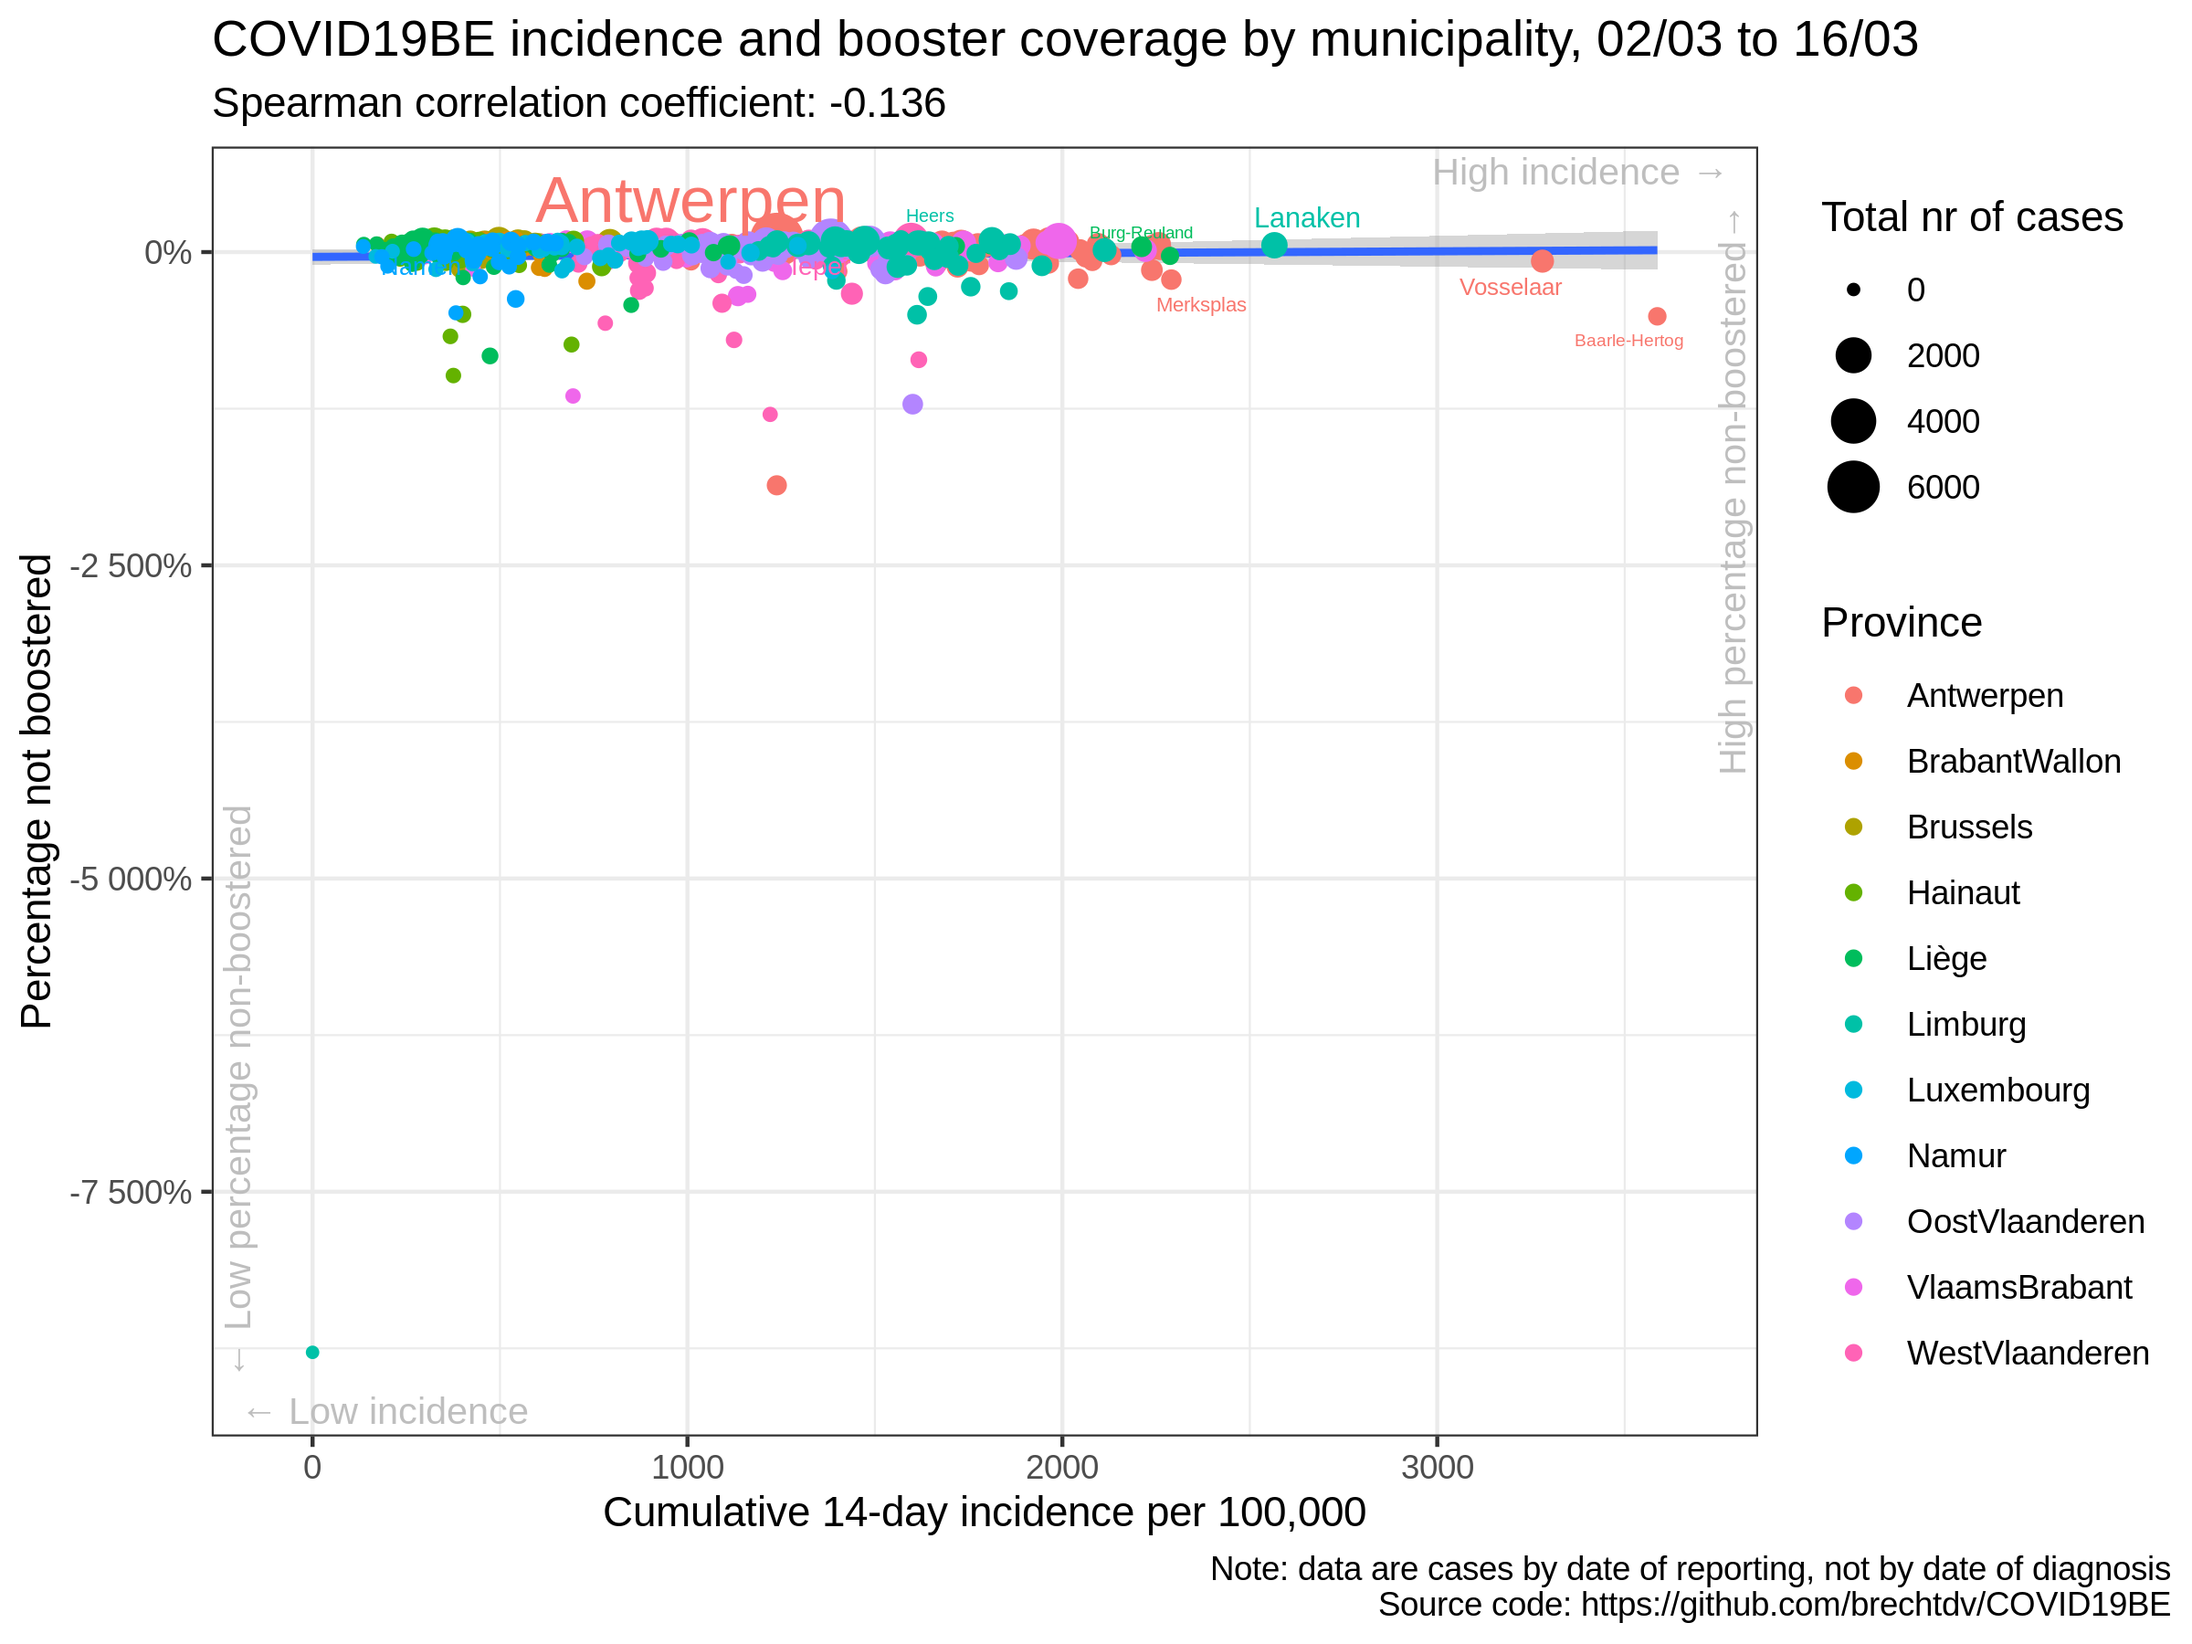
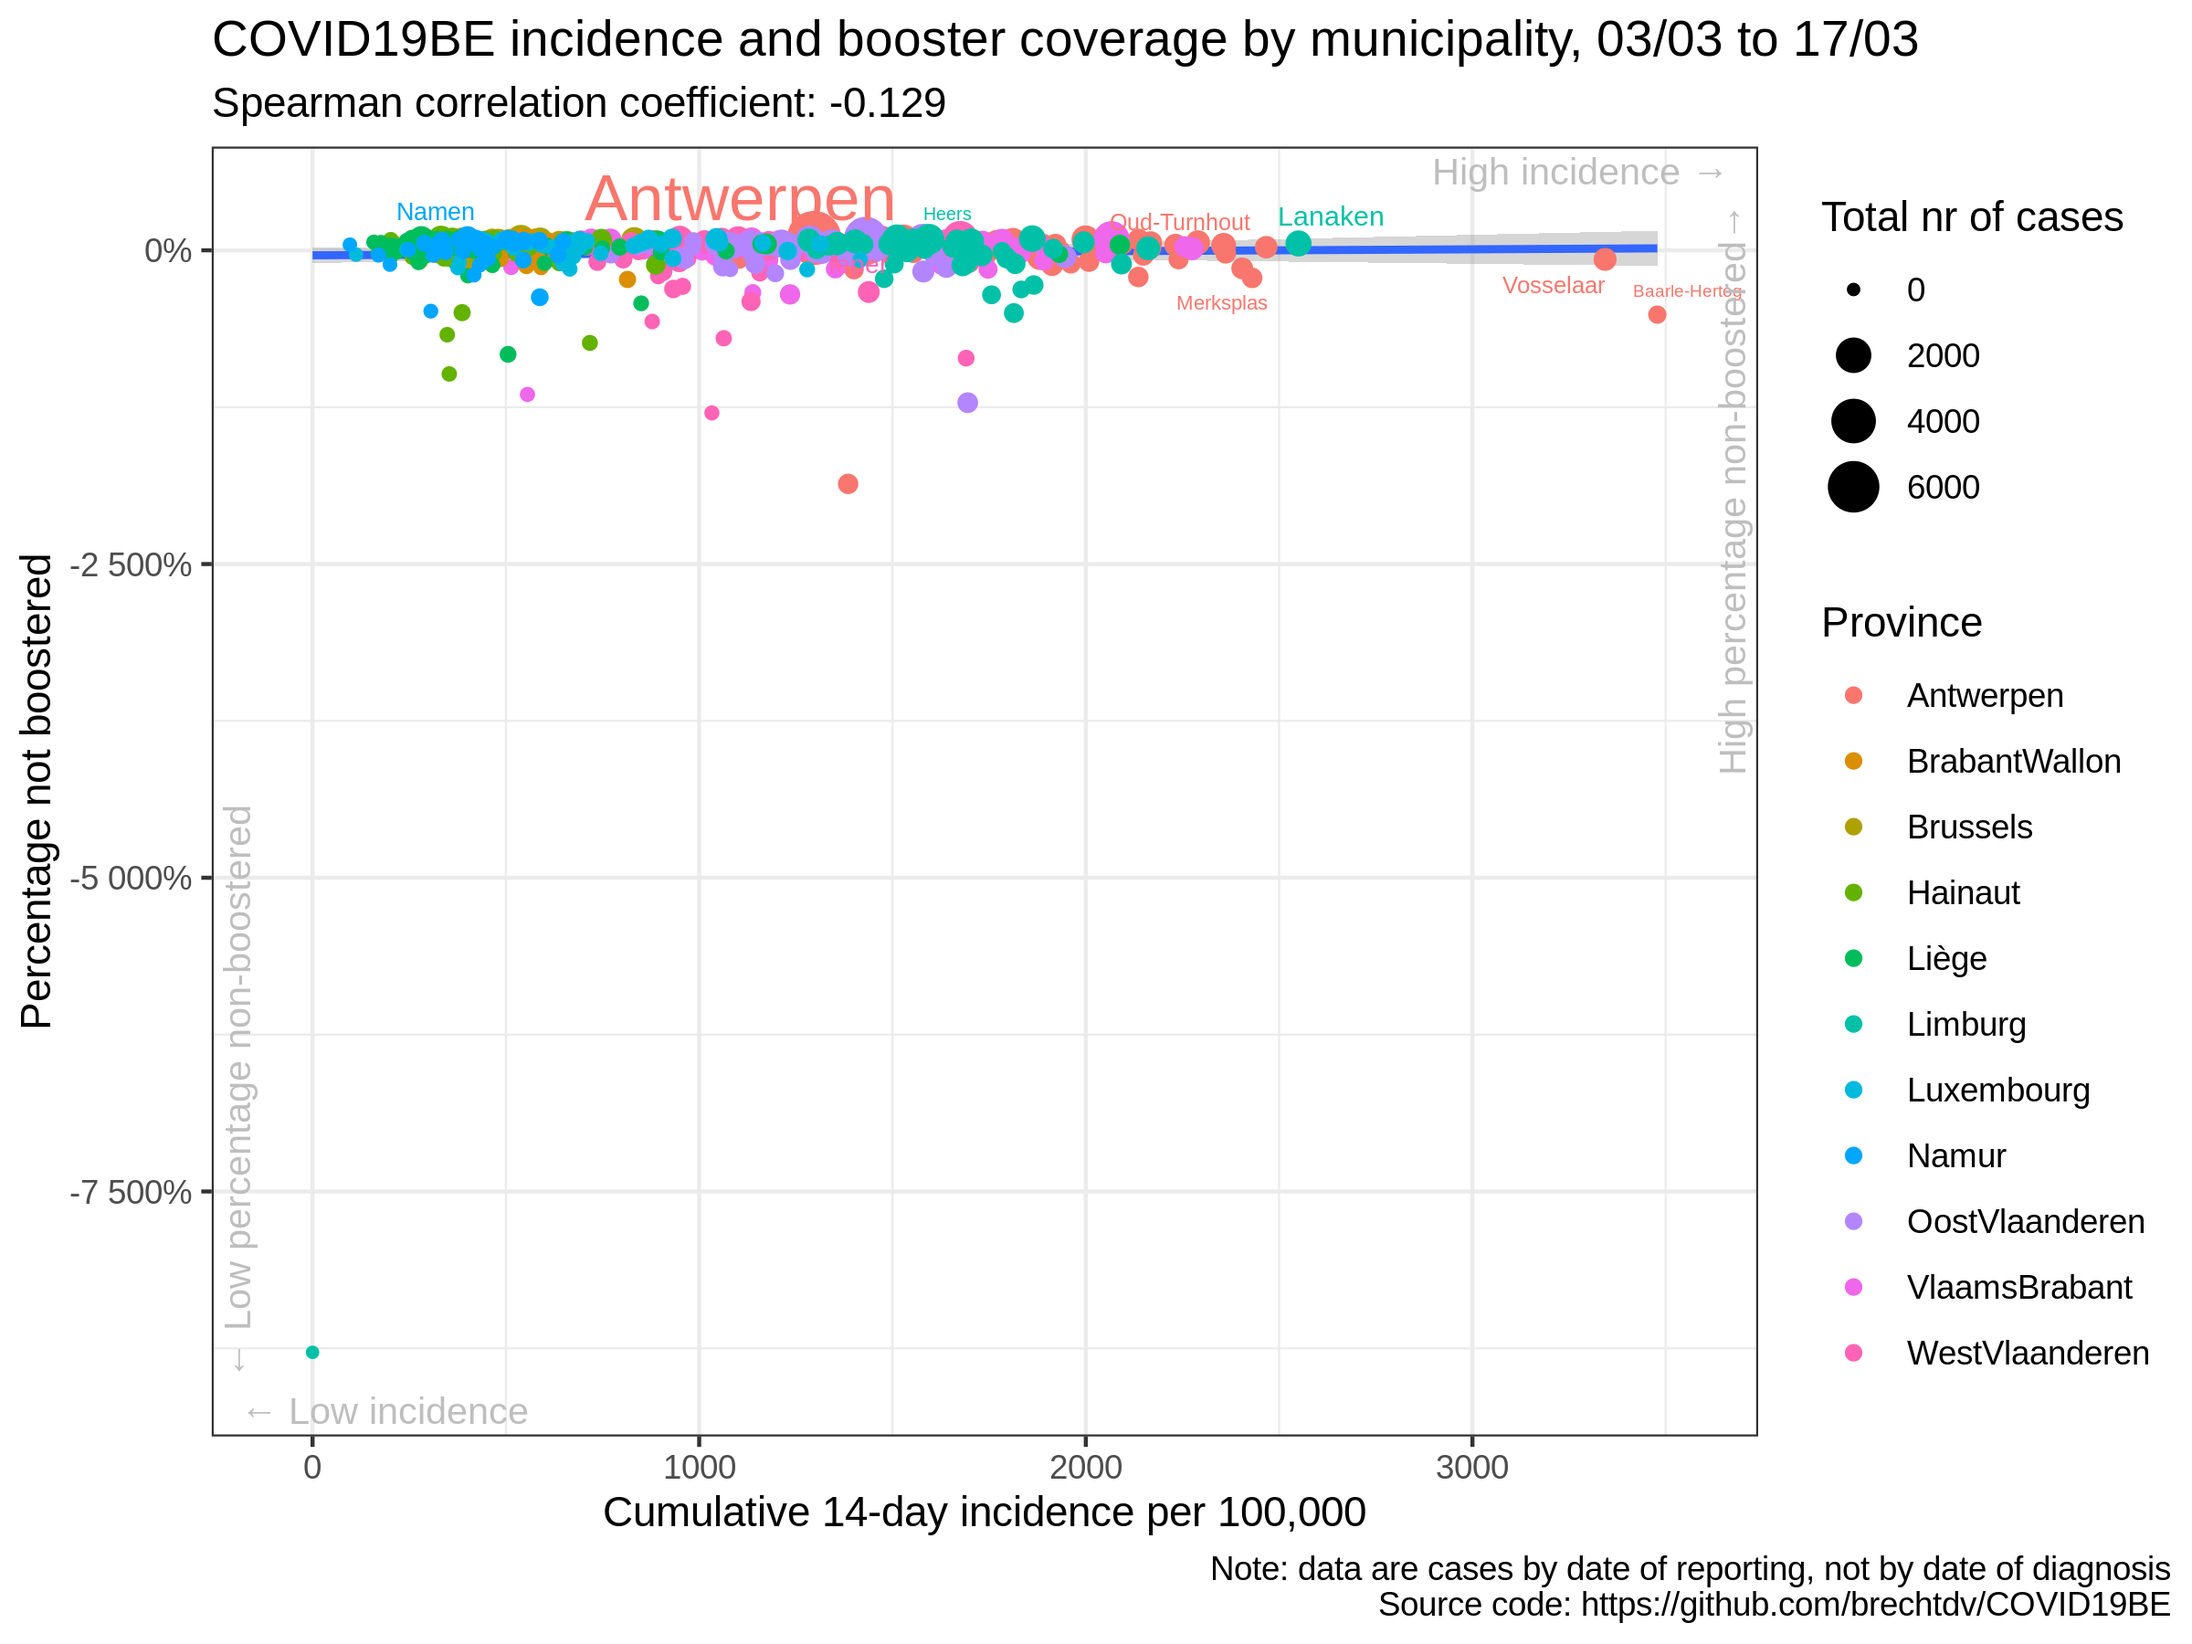
update situation

diff --git a/vaccination/README.md b/vaccination/README.md
@@ -17,35 +17,35 @@
 
 |                | estimate.rho | p.value |
 | :------------- | -----------: | ------: |
-| Antwerpen      |      \-0.084 |   0.492 |
-| BrabantWallon  |      \-0.193 |   0.333 |
-| Brussels       |        0.098 |   0.689 |
-| Hainaut        |      \-0.039 |   0.750 |
-| Liège          |      \-0.068 |   0.539 |
-| Limburg        |      \-0.131 |   0.406 |
-| Luxembourg     |        0.001 |   0.997 |
-| Namur          |        0.068 |   0.689 |
-| OostVlaanderen |      \-0.031 |   0.811 |
-| VlaamsBrabant  |      \-0.009 |   0.943 |
-| WestVlaanderen |        0.072 |   0.571 |
-| Belgium        |      \-0.079 |   0.056 |
+| Antwerpen      |      \-0.115 |   0.346 |
+| BrabantWallon  |      \-0.167 |   0.403 |
+| Brussels       |        0.121 |   0.621 |
+| Hainaut        |        0.047 |   0.698 |
+| Liège          |      \-0.039 |   0.724 |
+| Limburg        |      \-0.211 |   0.178 |
+| Luxembourg     |        0.047 |   0.762 |
+| Namur          |        0.126 |   0.457 |
+| OostVlaanderen |        0.003 |   0.979 |
+| VlaamsBrabant  |      \-0.003 |   0.980 |
+| WestVlaanderen |        0.175 |   0.167 |
+| Belgium        |      \-0.071 |   0.085 |
 
 ### Correlation cumulative incidence vs booster rate
 
 |                | estimate.rho | p.value |
 | :------------- | -----------: | ------: |
-| Antwerpen      |      \-0.090 |   0.459 |
-| BrabantWallon  |      \-0.183 |   0.359 |
-| Brussels       |        0.089 |   0.716 |
-| Hainaut        |      \-0.046 |   0.705 |
-| Liège          |      \-0.059 |   0.592 |
-| Limburg        |      \-0.130 |   0.409 |
-| Luxembourg     |        0.006 |   0.970 |
-| Namur          |        0.076 |   0.652 |
-| OostVlaanderen |      \-0.025 |   0.847 |
-| VlaamsBrabant  |      \-0.036 |   0.776 |
-| WestVlaanderen |        0.073 |   0.565 |
-| Belgium        |      \-0.136 |   0.001 |
+| Antwerpen      |      \-0.120 |   0.324 |
+| BrabantWallon  |      \-0.162 |   0.418 |
+| Brussels       |        0.096 |   0.694 |
+| Hainaut        |        0.044 |   0.720 |
+| Liège          |      \-0.032 |   0.774 |
+| Limburg        |      \-0.212 |   0.177 |
+| Luxembourg     |        0.049 |   0.751 |
+| Namur          |        0.137 |   0.419 |
+| OostVlaanderen |        0.009 |   0.947 |
+| VlaamsBrabant  |      \-0.032 |   0.799 |
+| WestVlaanderen |        0.176 |   0.163 |
+| Belgium        |      \-0.129 |   0.002 |
 
 ### Data source
 
